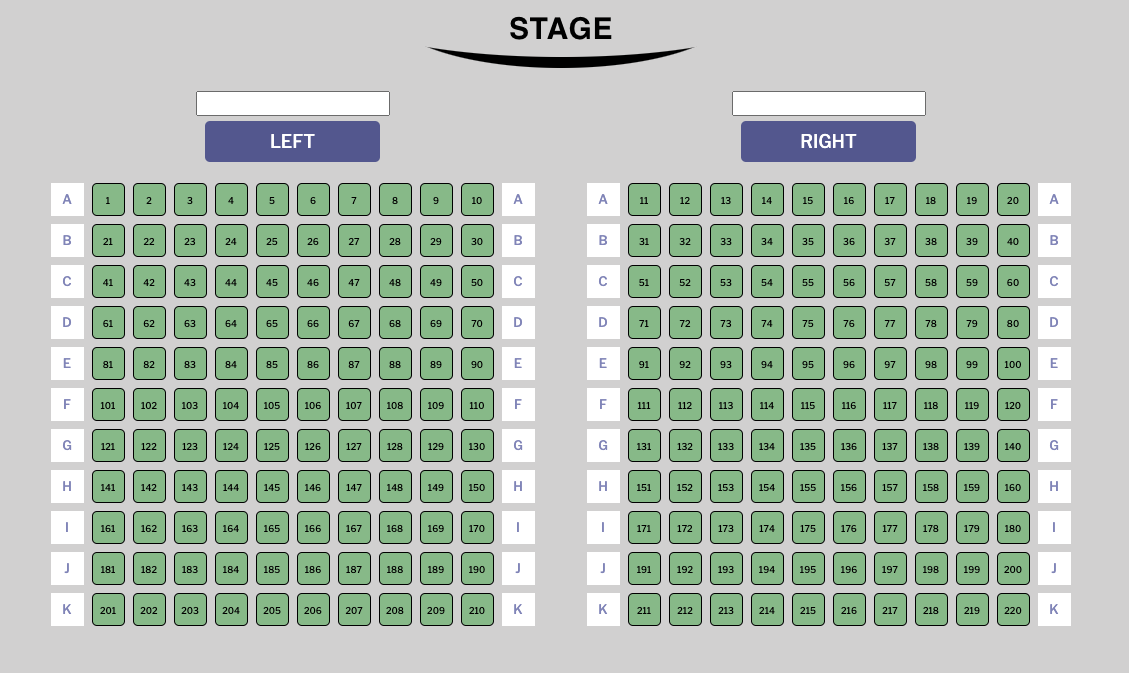
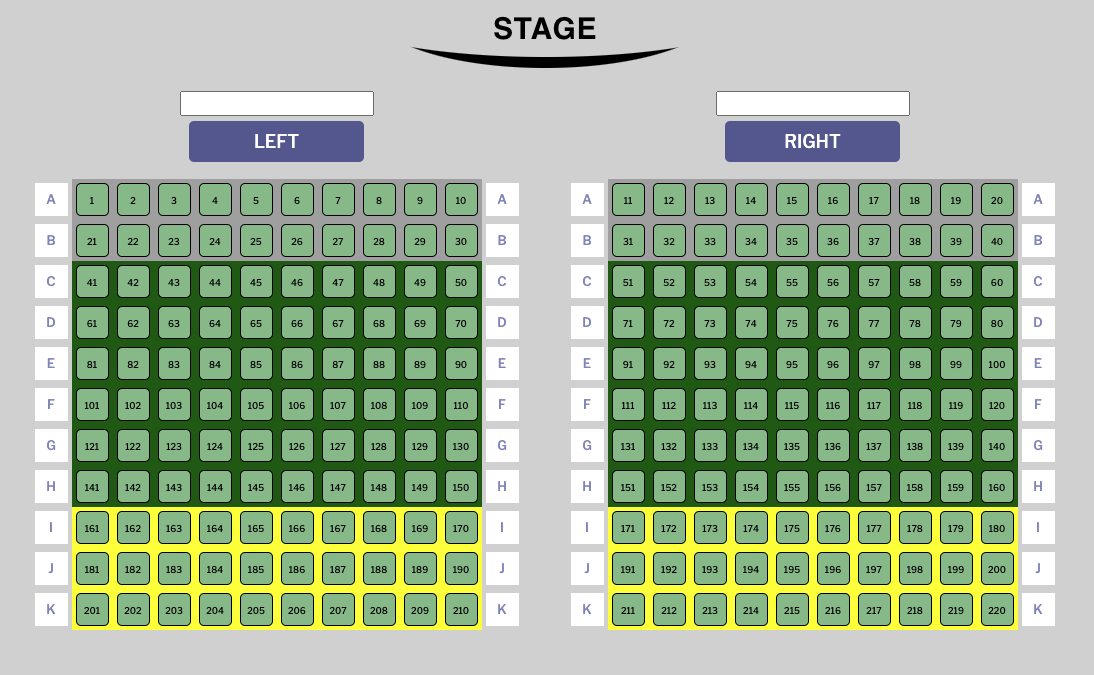
new venues

diff --git a/Completed/36759.html b/Completed/36759.html
@@ -1,0 +1,65 @@
+<!-- Maple Grove Middle School -->
+<table width="100%" border="0" cellspacing="0" cellpadding="0" align="center">
+  <!-- Stage Image -->
+  <tr>
+    <td>
+      <div align="center">
+        <img
+          src="https://s3.amazonaws.com/prdv2-dt-client/seating_images/stage.png"
+          alt="STAGE"
+          width="300"
+          height="80"
+        />
+      </div>
+    </td>
+  </tr>
+
+  <tr>
+    <td>
+      <div align="center">
+        <img
+          src="https://s3.amazonaws.com/prdv2-dt-client/seating_images/pixel.png"
+          width="1"
+          height="10"
+        />
+      </div>
+    </td>
+  </tr>
+
+  <!-- ALL -->
+  <tr>
+    <td>
+      <div align="center">
+        <table align="center">
+          <!-- Names -->
+          <tr>
+            <td>
+              <div align="center">{{{ sectionNames.48207 }}}</div>
+            </td>
+            <td rowspan="2">
+              <div align="center">
+                <img
+                  src="https://s3.amazonaws.com/prdv2-dt-client/seating_images/pixel.png"
+                  width="40"
+                  height="1"
+                />
+              </div>
+            </td>
+            <td>
+              <div align="center">{{{ sectionNames.48208 }}}</div>
+            </td>
+          </tr>
+          <!-- Seats -->
+          <tr>
+            <td>
+              <div align="center">{{{ sectionsMarkup.48207 }}}</div>
+            </td>
+            <td>
+              <div align="center">{{{ sectionsMarkup.48208 }}}</div>
+            </td>
+          </tr>
+        </table>
+      </div>
+    </td>
+  </tr>
+</table>

diff --git a/Completed/36851.html b/Completed/36851.html
@@ -1,4 +1,19 @@
 <!-- St John the Baptist School -->
+<style>
+  .row-gray > div > table > tbody > tr > td:has(> .seatCharts-seat),
+  .row-gray > div > table > tr > td:has(> .seatCharts-seat) {
+    background-color: darkgray;
+  }
+  .row-green > div > table > tbody > tr > td:has(> .seatCharts-seat),
+  .row-green > div > table > tr > td:has(> .seatCharts-seat) {
+    background-color: darkgreen;
+  }
+  .row-yellow > div > table > tbody > tr > td:has(> .seatCharts-seat),
+  .row-yellow > div > table > tr > td:has(> .seatCharts-seat) {
+    background-color: yellow;
+  }
+</style>
+
 <table width="100%" border="0" cellspacing="0" cellpadding="0" align="center">
   <!-- Stage Image -->
   <tr>
